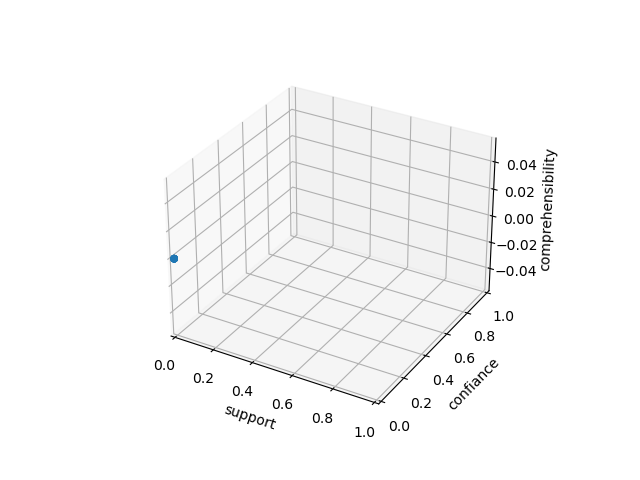
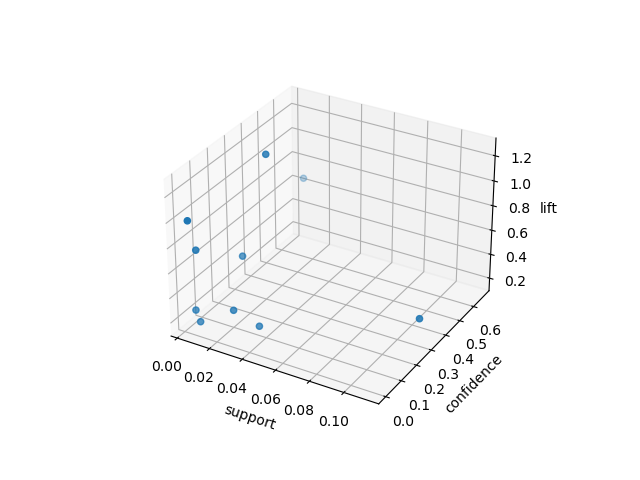
add Cat swarm optimization algorith,

Changed region(s): [[0.25, 0.1875, 0.875, 0.9062], [0.2188, 0.75, 0.4375, 0.8438]]

diff --git a/src/Algorithm/MOCatSOARM.py b/src/Algorithm/MOCatSOARM.py
@@ -1,0 +1,81 @@
+from src.Utils.Fitness import *
+from src.Utils.Population import *
+import matplotlib.pyplot as plt
+import pandas as pd
+from scipy.spatial import distance
+from src.Utils.Graphs import *
+
+class MOCatSOARM:
+    def __init__(self,nbItem,populationSize,nbIteration,nbObjectifs,objectiveNames,
+                mixtureRatio = 0.1,velocitySize=3,velocityRatio = 0.5,SMP=10, SRD = 3,
+                 save=True,display=True,path='Figures/'):
+        self.population = Population('horizontal_binary', populationSize, nbItem)
+        self.nbItem = nbItem
+        self.nbIteration = nbIteration
+        self.nbObjectifs = nbObjectifs
+        self.fitness = Fitness('horizontal_binary', objectiveNames, populationSize)
+        self.mixtureRatio = mixtureRatio
+        self.velocityRatio = velocityRatio
+        self.velocitySize = velocitySize
+        self.SMP = SMP
+        self.SRD =SRD
+        self.bestCat = []
+        self.bestCatScore = [0 for _ in range(nbObjectifs)]
+        self.save = save
+        self.display = display
+        self.path = path
+
+    def GenerateVelocity(self):
+        velocity = [0 for _ in range(self.nbItem*2)]
+        nbChanges = rd.randint(1,self.velocitySize)
+        for i in range(nbChanges):
+            index = rd.randint(0,self.nbItem*2-1)
+            velocity[index] = float(rd.randint(-1,1))
+        return velocity
+
+    def UpdateBestInd(self):
+        for i in range(self.population.populationSize):
+            if self.fitness.Domination(self.fitness.scores[i], self.bestCatScore) == -1:
+                self.bestCatScore = self.fitness.scores[i]
+                self.bestCat = copy.deepcopy(self.population.population[i])
+
+    def Resting(self,k,data):
+        environment = []
+        scores = []
+        wheel = [i  for i in range(self.SMP)]
+        for i in range(self.SMP):
+            position = copy.deepcopy(self.population.population[k])
+            for j in range(self.SRD):
+                index = rd.randint(0,self.nbItem*2-1)
+                position[index] = -1*position[index]
+            score = self.fitness.ComputeScoreIndividual(position,data)
+            environment.append(position)
+            scores.append(score)
+
+        for i in range(self.SMP):
+            for j in range(self.SMP):
+                if self.fitness.Domination(scores[i],scores[j]) == -1:
+                    wheel.append(i)
+
+        index = rd.choice(wheel)
+        self.population.population[k] = environment[index]
+
+
+
+    def Run(self,data):
+        for i in range(self.nbIteration):
+            self.fitness.ComputeScorePopulation(self.population.population,data)
+            self.UpdateBestInd()
+            for j in range(self.population.populationSize):
+                r = rd.random()
+                if r<self.mixtureRatio:
+                    velocity = self.GenerateVelocity()
+                    r = rd.random()
+                    self.population.population[j] =self.population.population[j]+ velocity+r*self.velocityRatio*(self.bestCat-self.population.population[j])
+                else:
+                    self.Resting(j,data)
+            print(self.bestCatScore)
+            graph = Graphs(self.fitness.objectivesNames, self.fitness.scores, self.save, self.display,
+                           self.path + str(i))
+            graph.Graph3D()
+

diff --git a/main.py b/main.py
@@ -5,6 +5,7 @@ from src.Algorithm.CSOARM import *
 from src.Algorithm.HMOFAARM import *
 from src.Algorithm.MOSAARM import *
 from src.Algorithm.MOWSAARM import *
+from src.Algorithm.MOCatSOARM import *
 
 data = pd.read_csv('Data/bankrupt.csv')
 data = data.to_numpy()
@@ -13,7 +14,8 @@ data = data.to_numpy()
 #alg = NSGAII(data.shape[1],200,20,3,['support','confidence','lift'],)
 #alg = CSOARM(data.shape[1],200,20,3,['support','confidence','lift'])
 #alg = HMOFAARM(data.shape[1],100,20,3,['support','confidence','lift'])
-#alg = MOSAARM(data.shape[1],10,30,2,['support','confidence','lift'])
-alg = MOWSAARM(data.shape[1],200,20,3,['support','confidence','lift'],save=True,display=True,path='Figures/MOWSAARM/')
+#alg = MOSAARM(data.shape[1],10,30,2,['support','confidence','lift'],save=True,display=True,path='Figures/MOSAARM/')
+#alg = MOWSAARM(data.shape[1],200,20,3,['support','confidence','lift'],save=True,display=True,path='Figures/MOWSAARM/')
+alg = MOCatSOARM(data.shape[1],200,20,3,['support','confidence','lift'],save=True,display=True,path='Figures/MOCatSOARM/')
 
 alg.Run(data)
